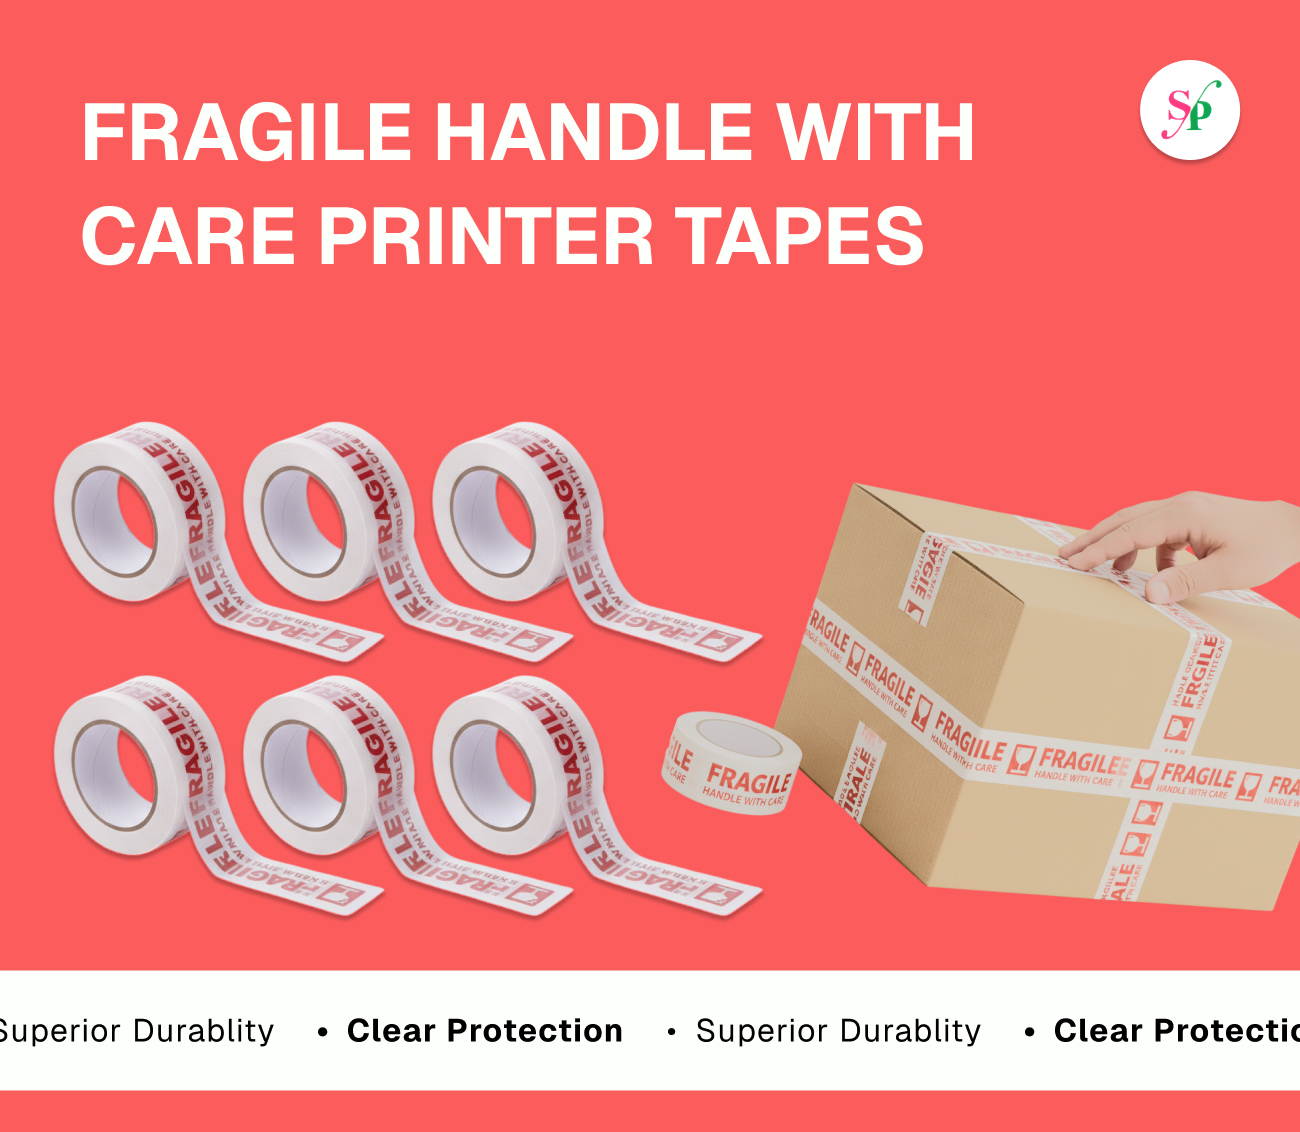
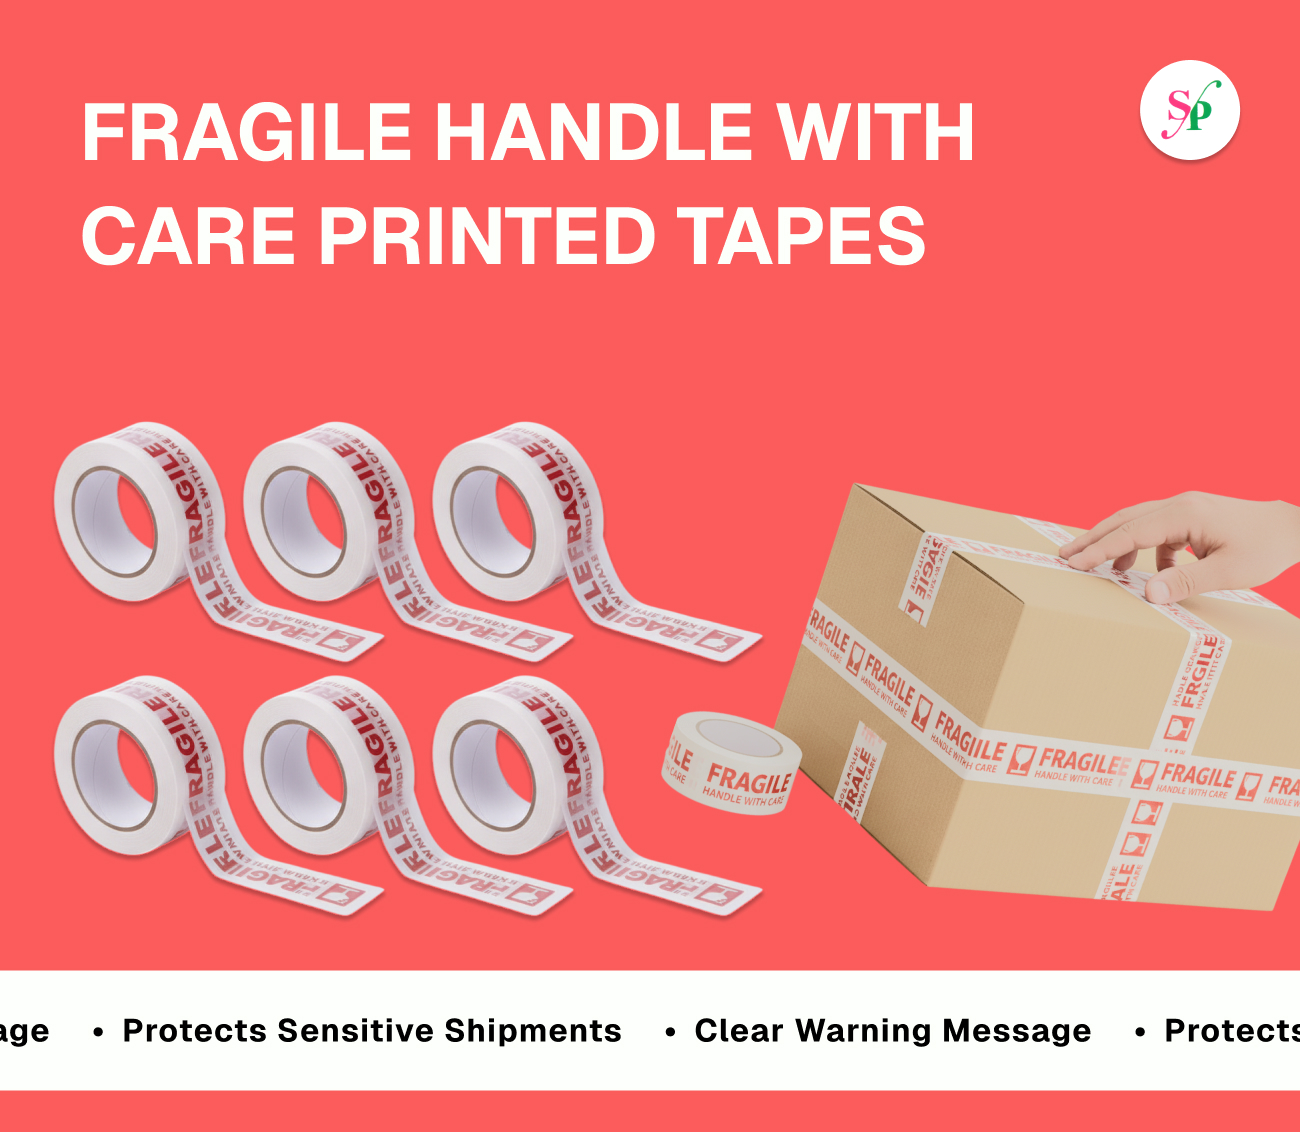
first commit

diff --git a/index.html b/index.html
@@ -78,7 +78,7 @@
         <a class="backToTop"><i class="fa-solid fa-up-long"></i></a>
  <div class="header sticky">
                     <div class="logo-image">
-                        <img src="./Smart_poly_images/logo.svg" alt="LOGO">
+                        <img src="./Smart_poly_images/Smart_Poly_Logo.png" alt="LOGO">
                         <svg></svg>
                     </div>
 
@@ -209,7 +209,7 @@
                         <p class="order-now">Check Now  <img src="./Smart_poly_images/right_arrow.svg" alt="right_arrow"/></p>
 
                     </a>
-                    <p class="product-name">Fraglie Handle with Care printer tapes</p>
+                    <p class="product-name">Fraglie Handle with Care printed tapes</p>
                 </div>
 
                 <div class="product-container" data-animation="slideUp" >
@@ -251,7 +251,7 @@
                         <p class="order-now">Check Now  <img src="./Smart_poly_images/right_arrow.svg" alt="right_arrow"/></p>
 
                     </a>
-                    <p class="product-name">PVC cling flim wrap</p>
+                    <p class="product-name">PVC cling film wrap</p>
                 </div>
 
 
@@ -297,7 +297,7 @@
                                 <svg xmlns="http://www.w3.org/2000/svg" height="24px" viewBox="0 -960 960 960" width="24px" fill="#000000"><path d="M798-120q-125 0-247-54.5T329-329Q229-429 174.5-551T120-798q0-18 12-30t30-12h162q14 0 25 9.5t13 22.5l26 140q2 16-1 27t-11 19l-97 98q20 37 47.5 71.5T387-386q31 31 65 57.5t72 48.5l94-94q9-9 23.5-13.5T670-390l138 28q14 4 23 14.5t9 23.5v162q0 18-12 30t-30 12ZM241-600l66-66-17-94h-89q5 41 14 81t26 79Zm358 358q39 17 79.5 27t81.5 13v-88l-94-19-67 67ZM241-600Zm358 358Z"/></svg>
                                 <div>
                                     <h3>Call Us:</h3>
-                                    <p>08047653605</p>
+                                    <p>9003883411, 7845063411</p>
                                 </div>
                                  
                             </div>

diff --git a/products.html b/products.html
@@ -25,7 +25,7 @@
     <section class="header-section">
         <div class="header">
             <div class="logo-image">
-                <img src="./Smart_poly_images/logo.svg" alt="LOGO">
+                <img src="./Smart_poly_images/Smart_Poly_Logo.png" alt="LOGO">
                 <svg></svg>
             </div>
     

diff --git a/style.css b/style.css
@@ -152,7 +152,7 @@ section:not(.home, .about, .footer){
 
 .logo-image img{
     height: 75px;
-    width: 280px;
+    width: 310px;
     object-fit: cover;
 }
 

diff --git a/style2.css b/style2.css
@@ -51,7 +51,7 @@
 
 .logo-image img{
     height: 75px;
-    width: 280px;
+     width: 310px;
     object-fit: cover;
 }
 
